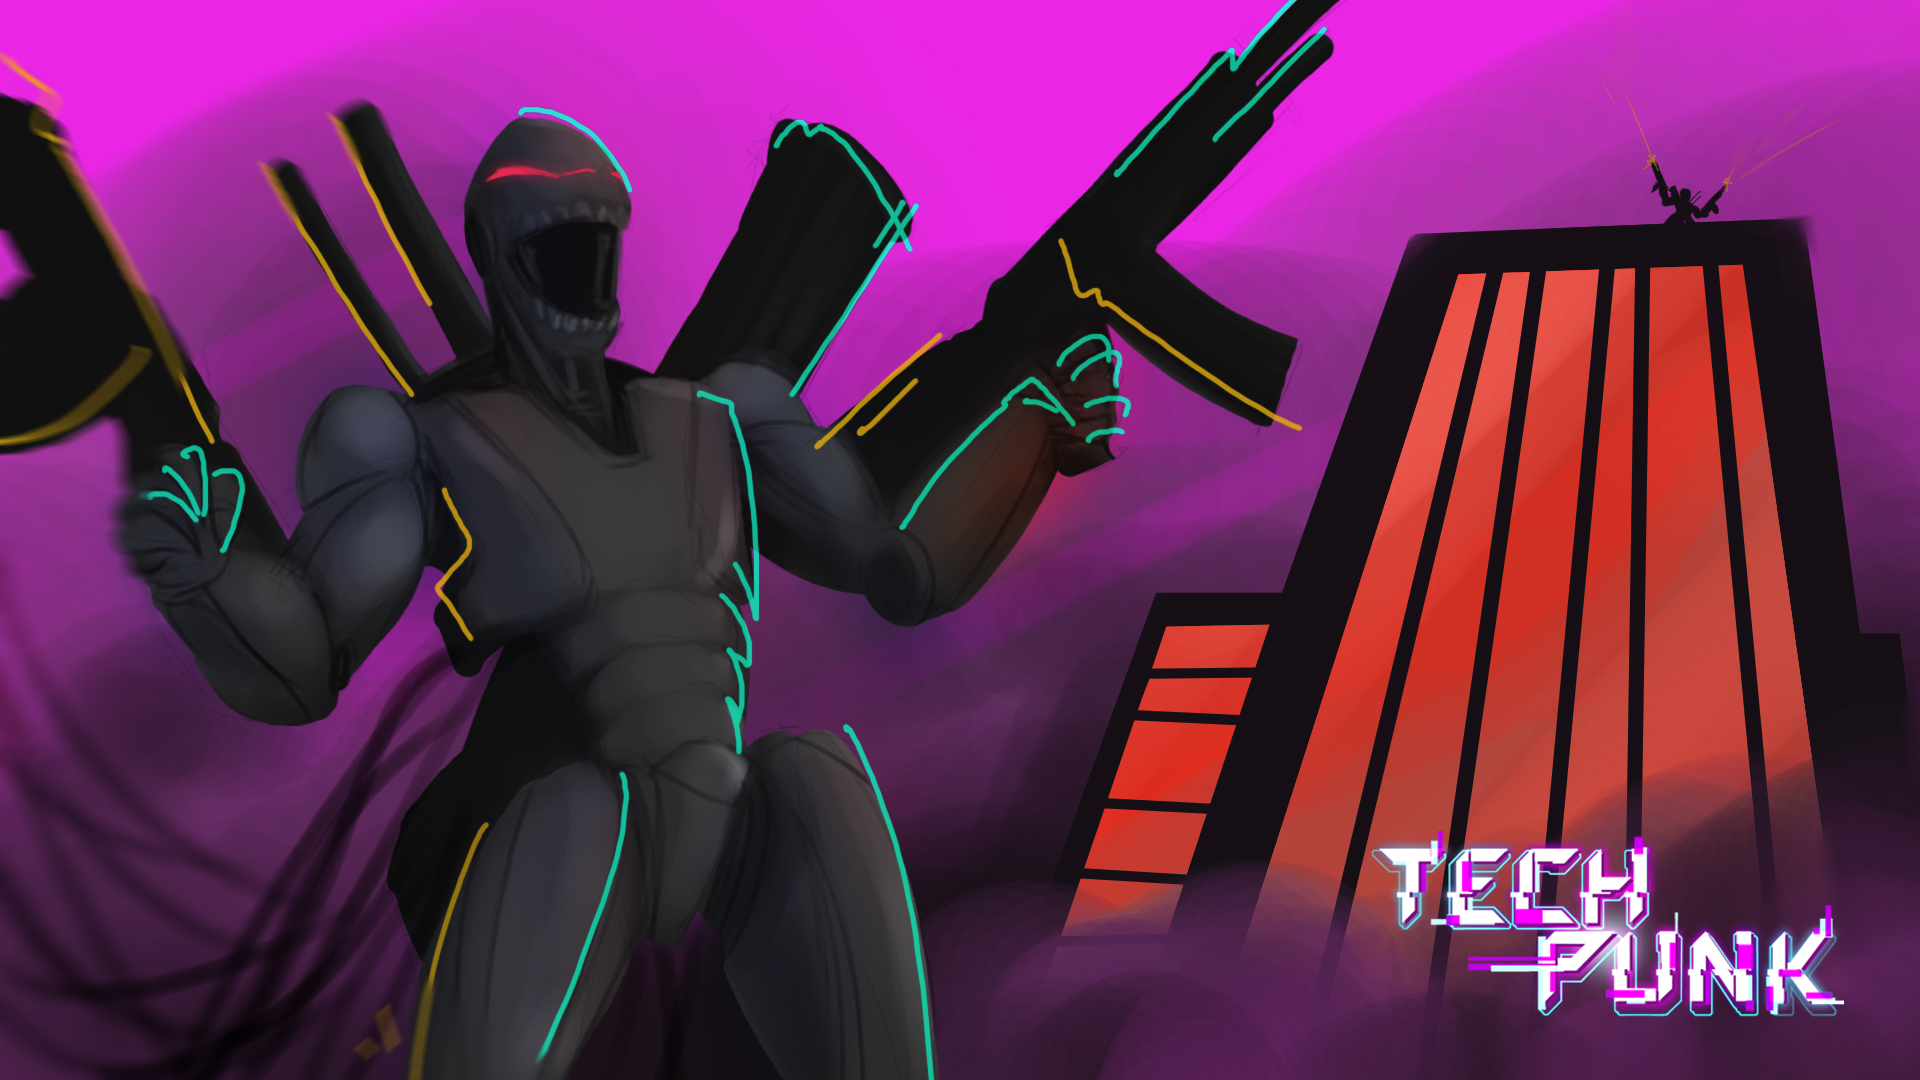
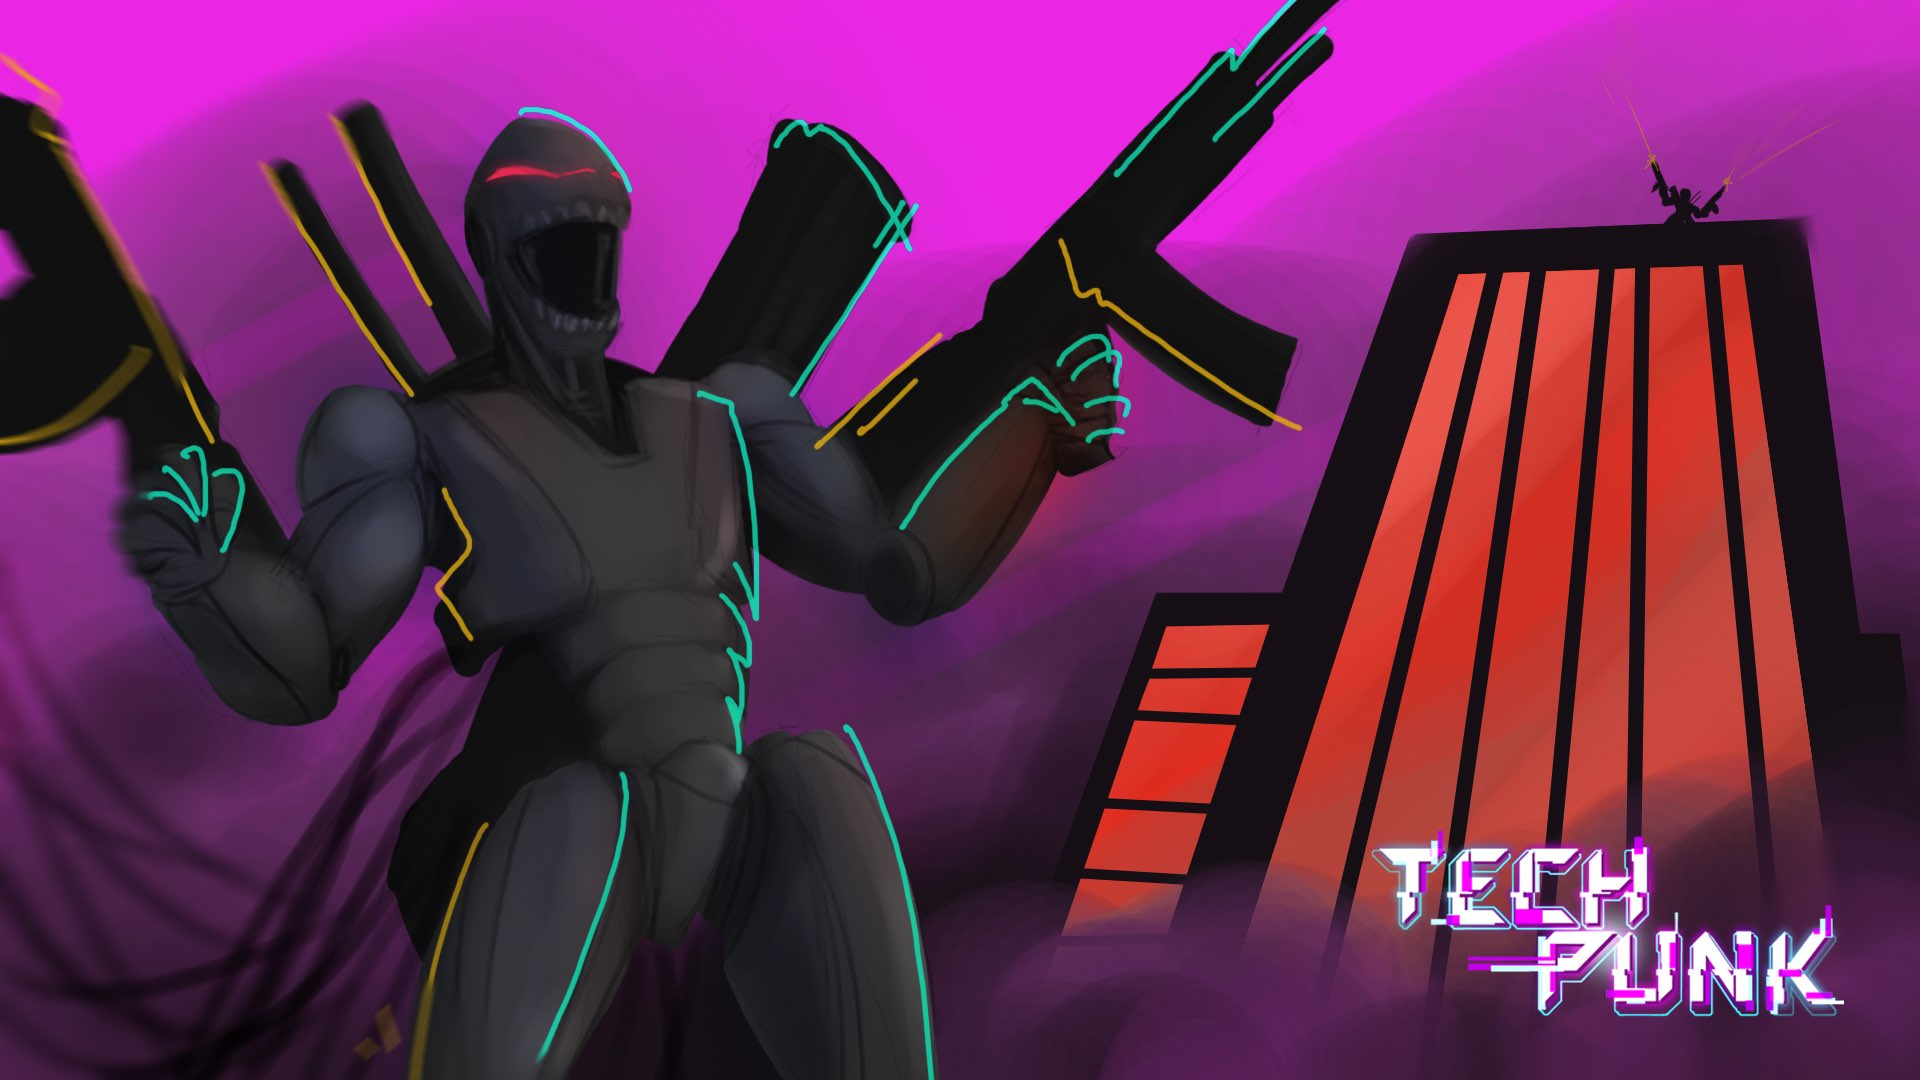
replaced images with smaller version
also commented preloader temporarily

diff --git a/index.php b/index.php
@@ -96,10 +96,15 @@
 
 <!-- Template Main JS File --> 
 <script defer src="assets/js/main.js"></script>
-<div class="preloader hider">
-  <img src="./code/2222222222222222/hidden_end.jpg" alt="">
-  <img src="./code/endConscious/true_end.jpg" alt="">
-  <img src="./code/endSurrender/bad_end.jpg" alt="">
-</div>
+<!-- <div class="preloader hider" id="preloader">
+  <script>
+    var root = document.getElementById('preloader');
+    function load_preload_items() {
+      var imgs = '<img class="preload_items" src="./code/2222222222222222/hidden_end.jpg" alt=""><img class="preload_items" src="./code/endConscious/true_end.jpg" alt=""><img class="preload_items" src="./code/endSurrender/bad_end.jpg" alt="">';
+      root.innerHTML = imgs;
+    }
+    // window.onload = load_preload_items;
+  </script>
+</div> -->
 </body>
 </html>
